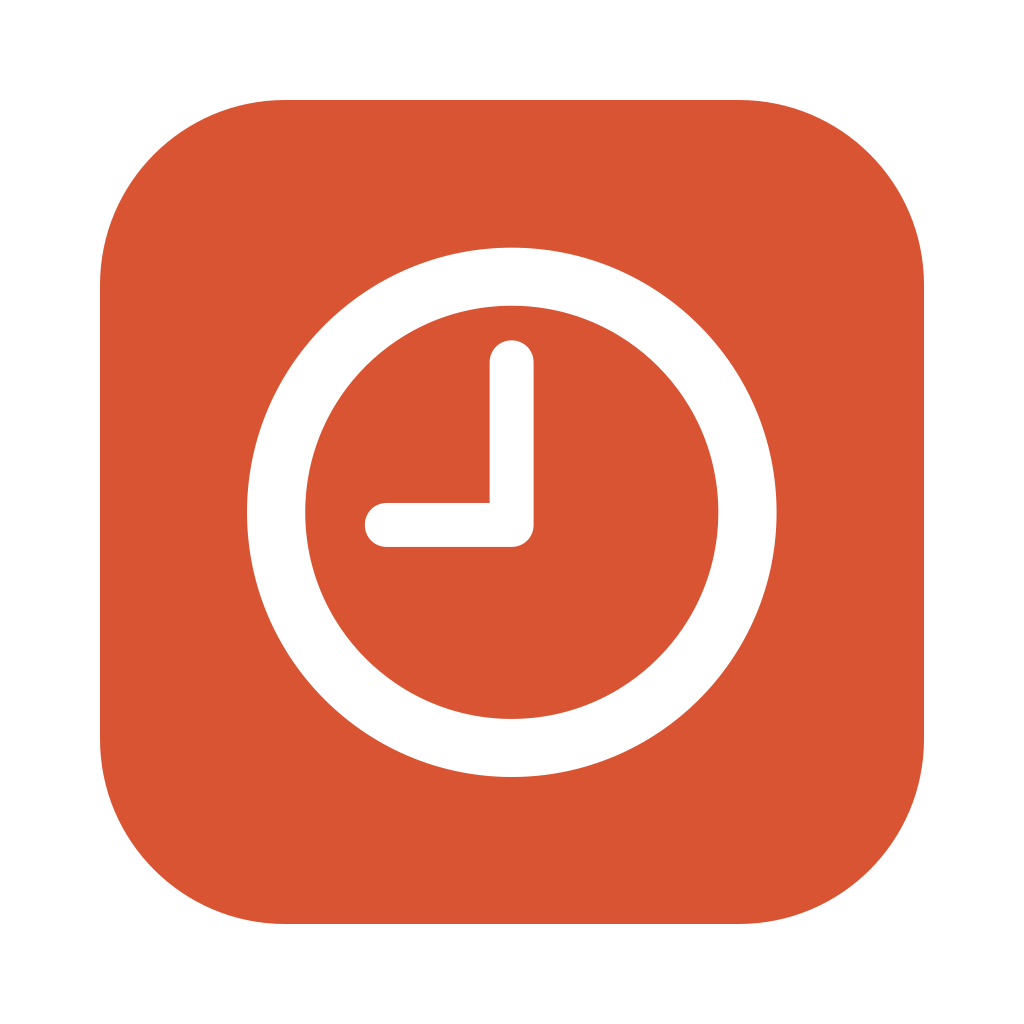
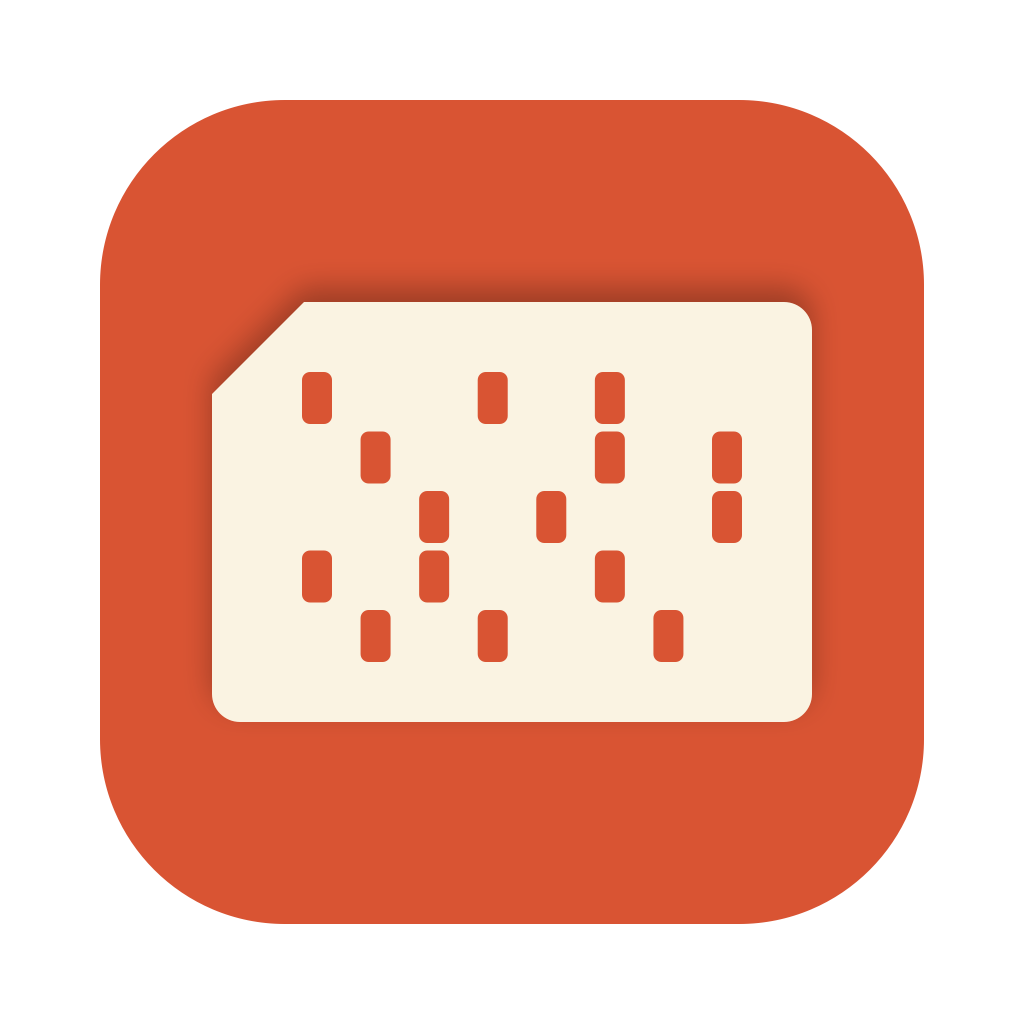
feat: publish v* tags as GitHub Releases and document install for 0.1.0 (#5)
* feat: add release workflow, install README, punch-card icon and version 0.1.0

The root VERSION file (0.1.0) is now the default version that
scripts/build-app.sh stamps into Info.plist, so Finder's Get Info shows it;
VERSION=x.y.z still overrides it and malformed versions are rejected.

release.yml runs on v* tags with contents: write: it checks the tag matches
VERSION, runs the tests, builds the universal ad-hoc signed app with --zip,
verifies the signature, architectures and checksum, and publishes a GitHub
Release with the zip and its .sha256. CI now also builds the zip and checks
the checksum so the release path is exercised on every pull request.

The README covers install from Releases, first launch of the unsigned app on
macOS 15 and later (Privacy & Security > Open Anyway) and on macOS 14
(Control-click > Open), the xattr alternative, checksum verification, using
the app, where the data lives and how to back it up, building and releasing.

The icon is a simple punch-card glyph on the existing orange square.

* no-mistakes(review): Take release version from the tag, drop VERSION file

* no-mistakes(test): Make copied resource bundles owner-writable so xattr -dr succeeds

Changed region(s): [[0.1875, 0.2188, 0.8125, 0.7812]]

diff --git a/README.md b/README.md
@@ -1,15 +1,107 @@
 # Punchcard
 
 A macOS menu bar time tracker for contractors. Start and stop a clock per client and see
-per-day, per-week and per-month totals. Hours only, no money. Your data stays on your Mac.
+per-day, per-week and per-month totals. Hours only, no money. Your data stays on your Mac in a
+SQLite file you own.
 
-> Early development. The menu bar item starts and stops the clock and shows today, this week
-> and this month per client. The History and Settings windows are still empty; they fill in
-> over the next releases.
+> Early days. Version 0.1 starts and stops the clock and shows today, this week and this month
+> per client. The History and Settings windows are still empty; editing entries, managing
+> clients, the away prompt, CSV export, launch at login and a global shortcut arrive in the
+> next releases.
 
 ## Requirements
 
-macOS 14 Sonoma or later.
+macOS 14 Sonoma or later, on Apple silicon or Intel.
+
+## Install
+
+1. Download `Punchcard-<version>-macos.zip` from the
+   [latest release](https://github.com/codyjohnsontx/punchcard/releases/latest).
+2. Double-click the zip to unzip it, then drag `Punchcard.app` into your Applications folder.
+3. Open it once by following [First launch](#first-launch-unsigned-app) below.
+
+Punchcard lives in the menu bar and has no Dock icon. Look for the clock at the top right of
+your screen.
+
+### First launch (unsigned app)
+
+Punchcard is open source but not signed or notarized by Apple, because that needs a paid Apple
+Developer account. The first time you open it, macOS warns that it cannot check the app for
+malicious software. You only need to approve it once.
+
+**macOS 15 Sequoia and later**
+
+1. Double-click `Punchcard.app`. macOS says it was not opened. Click **Done**.
+2. Open **System Settings > Privacy & Security** and scroll down to **Security**.
+3. Next to the message about Punchcard, click **Open Anyway**, then enter your password.
+4. In the dialog that follows, click **Open Anyway**.
+
+Apple removed the Control-click shortcut in Sequoia, so the Settings path above is the way
+through.
+
+**macOS 14 Sonoma**
+
+1. In Finder, Control-click (or right-click) `Punchcard.app` and choose **Open**.
+2. In the dialog, click **Open**.
+
+**Either version, from Terminal**
+
+Clear the quarantine flag the browser added to the download, then open the app normally:
+
+```sh
+xattr -dr com.apple.quarantine /Applications/Punchcard.app
+```
+
+### Check the download
+
+Each release also has a `.sha256` file. Download it next to the zip and run, in that folder:
+
+```sh
+shasum -a 256 -c Punchcard-<version>-macos.zip.sha256
+```
+
+It prints `OK` when the zip is exactly what the release built.
+
+## Using it
+
+- **Start and stop.** Click the menu bar item. With one client, the dropdown has a single
+  Start or Stop button. While the clock runs, the menu bar shows the running time, such as
+  `● 1:42`.
+- **Totals.** The dropdown shows today, this week and this month. Weeks start on Monday.
+  Durations read as hours and minutes, so `160:15` is 160 hours 15 minutes.
+- **Clients.** Punchcard starts with one client named `Default`. Once there are two or more,
+  each client gets its own Start button and totals row, and the menu bar adds the running
+  client's name. Only one clock runs at a time: starting another client stops the running one
+  at the same moment, so no minute is counted twice. Until the Clients tab arrives, add a client
+  from Terminal:
+
+  ```sh
+  sqlite3 ~/Library/Application\ Support/Punchcard/punchcard.sqlite \
+    "INSERT INTO clients (name, created_at) VALUES ('Acme', unixepoch())"
+  ```
+
+- **Quitting.** Quit from the dropdown. A running clock keeps running while the app is closed
+  and is still running when you open it again.
+- **Opening at login.** Not automatic yet. Add Punchcard under
+  **System Settings > General > Login Items** if you want it to start with your Mac.
+
+## Where your data is
+
+Everything is in one SQLite file:
+
+```
+~/Library/Application Support/Punchcard/punchcard.sqlite
+```
+
+The file is yours. Punchcard never sends it anywhere. To back it up, even while the app is
+running:
+
+```sh
+sqlite3 ~/Library/Application\ Support/Punchcard/punchcard.sqlite \
+  ".backup $HOME/punchcard-backup.sqlite"
+```
+
+The tables and rules are documented in [docs/schema.md](docs/schema.md).
 
 ## Build from source
 
@@ -23,13 +115,26 @@ make run     # swift run Punchcard, no app bundle
 make zip     # dist/Punchcard-<version>-macos.zip and its .sha256
 ```
 
-Set `VERSION=x.y.z` for `make app` or `make zip` to stamp the bundle version.
+Local builds are versioned `0.0.0-dev`. Set `VERSION=x.y.z` to stamp a version, for
+example `VERSION=0.1.0 make app`.
 
 With only the Command Line Tools, plain `swift test` builds but runs no tests, because
 SwiftPM does not put Swift Testing on the framework search path; use `make test`.
 With Xcode selected, `swift test` works as usual.
 
 Xcode can open `Package.swift` directly for previews and debugging.
+
+### Releasing
+
+Push a `v` tag; the release takes its version from the tag:
+
+```sh
+git tag v0.1.0
+git push origin v0.1.0
+```
+
+The [release workflow](.github/workflows/release.yml) runs the tests, builds the universal app
+with the tag's version, and publishes a GitHub Release with the zip and its checksum.
 
 ## Layout
 
@@ -42,8 +147,15 @@ Xcode can open `Package.swift` directly for previews and debugging.
 
 ## Roadmap
 
-A Tauri app for Windows and Linux, in this repository, sharing the same data format
-([docs/schema.md](docs/schema.md)).
+- History window with entry editing, client management, the away prompt ("You were away
+  N min, keep or drop?"), CSV export, settings, launch at login and a global shortcut.
+- A Tauri app for Windows and Linux, in this repository, sharing the same data format
+  ([docs/schema.md](docs/schema.md)).
+
+## Contributing
+
+Issues and pull requests are welcome. Run `make test` and `make app` before opening a pull
+request; CI runs the same steps.
 
 ## License
 

diff --git a/AGENTS.md b/AGENTS.md
@@ -4,6 +4,7 @@ This file is the project's committed home for project-intrinsic agent knowledge:
 
 - Build, test and package through the `Makefile` targets; it and `scripts/build-app.sh` are the source of truth for commands.
 - Run tests with `make test`, not bare `swift test`: with only the Command Line Tools, `swift test` builds but silently runs zero Swift Testing tests (SwiftPM omits the `-F`/rpath for `Testing.framework`, and its synthesized runner cannot be fixed from `Package.swift`).
+- The app version comes from the `VERSION` environment variable, which `scripts/build-app.sh` stamps into `Info.plist` (default `0.0.0-dev`); `release.yml` (on `v*` tags) sets it from the tag, so `v0.1.0` builds 0.1.0, and local builds use e.g. `VERSION=0.1.0 make app`.
 - `swift build --arch arm64 --arch x86_64` needs Xcode's XCBuild, so `scripts/build-app.sh` builds each `--triple` and merges with `lipo`; keep it that way so the app builds with the Command Line Tools alone.
 - SwiftPM's native build system generates `Bundle.module` to look for `<Package>_<Target>.bundle` next to `Bundle.main.bundleURL` (the `.app` root), not in `Contents/Resources` where `build-app.sh` copies bundles; the first target with resources must load them from `Bundle.main.resourceURL` explicitly.
 - `docs/schema.md` is the SQLite contract shared with the planned Tauri app: schema changes go in a new numbered file under `Sources/PunchcardCore/Resources/Migrations` (never edit a released one), tracked only by `PRAGMA user_version`, and update that doc.
